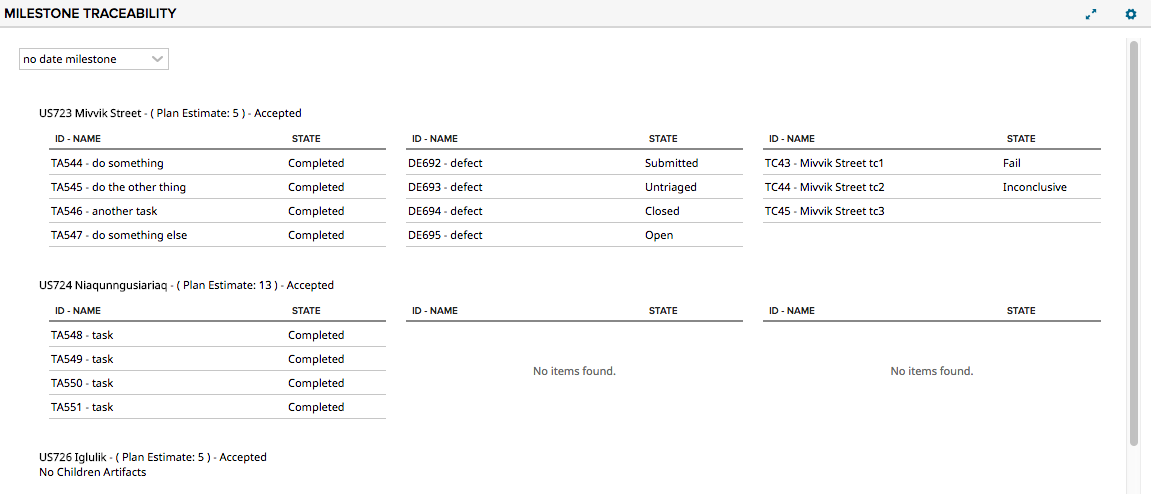
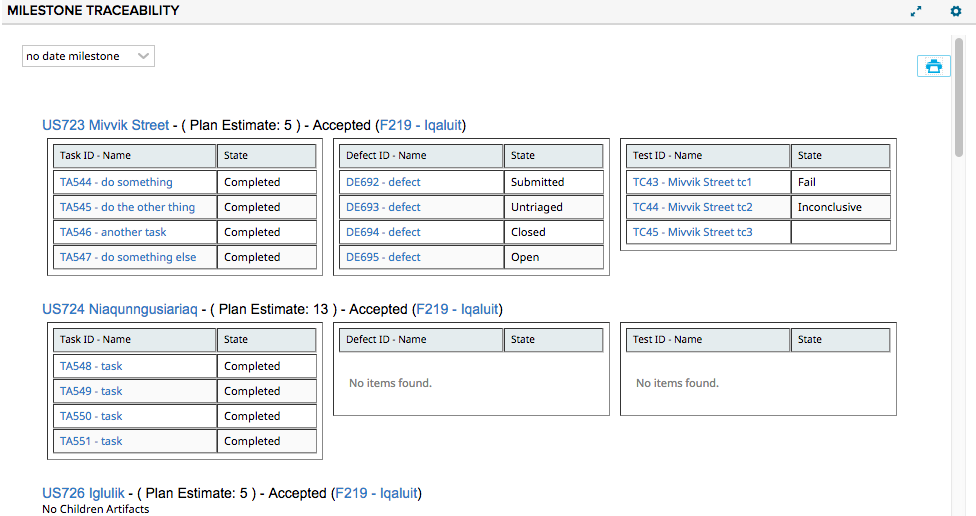
add docs

diff --git a/testcasesummary/README.md b/testcasesummary/README.md
@@ -4,18 +4,33 @@
 
 ![screenshot](./images/screenshot.png "This is an example")
 
+Shows the test cases associated with the timebox selected.  
+* When it's a milestone, this will show all of the testcases associated with a story that
+is associated with the milestone directly.  
+* When it's a release, this will show all of the testcases associated with a story that
+is associated with the release directly.
+
+The display is a grid of test cases grouped by test case type and method.  
+
+At the top, a bar shows the percentage of cases that are displayed that have a last verdict.  This bar changes based on the filtering.
+
+This app will react to the page level timebox scoping if that is set to release or milestone.
+
 ## Development Notes
 
+* This app does not care if there are features that are associated with the release or the milestone
+* The app limits the width to 900 so that printing can print what is directly on the screen.
+* Uses the advanced filter
 
 ### First Load
 
-If you've just downloaded this from github and you want to do development, 
+If you've just downloaded this from github and you want to do development,
 you're going to need to have these installed:
 
  * node.js
  * grunt-cli
  * grunt-init
- 
+
 Since you're getting this from github, we assume you have the command line
 version of git also installed.  If not, go get git.
 
@@ -26,21 +41,21 @@ to get set up to develop:
 
 #### Deployment & Tests
 
-If you want to use the automatic deployment mechanism, be sure to use the 
+If you want to use the automatic deployment mechanism, be sure to use the
 **makeauth** task with grunt to create a local file that is used to connect
 to Rally.  This resulting auth.json file should NOT be checked in.
 
 ### Structure
 
-  * src/javascript:  All the JS files saved here will be compiled into the 
+  * src/javascript:  All the JS files saved here will be compiled into the
   target html file
-  * src/style: All of the stylesheets saved here will be compiled into the 
+  * src/style: All of the stylesheets saved here will be compiled into the
   target html file
-  * test/fast: Fast jasmine tests go here.  There should also be a helper 
+  * test/fast: Fast jasmine tests go here.  There should also be a helper
   file that is loaded first for creating mocks and doing other shortcuts
   (fastHelper.js) **Tests should be in a file named <something>-spec.js**
   * test/slow: Slow jasmine tests go here.  There should also be a helper
-  file that is loaded first for creating mocks and doing other shortcuts 
+  file that is loaded first for creating mocks and doing other shortcuts
   (slowHelper.js) **Tests should be in a file named <something>-spec.js**
   * templates: This is where templates that are used to create the production
   and debug html files live.  The advantage of using these templates is that
@@ -56,10 +71,10 @@ to Rally.  This resulting auth.json file should NOT be checked in.
         "password":"secret",
         "server": "https://rally1.rallydev.com"
     }
-  
+
 ### Usage of the grunt file
 ####Tasks
-    
+
 ##### grunt debug
 
 Use grunt debug to create the debug html file.  You only need to run this when you have added new files to
@@ -71,7 +86,7 @@ Use grunt build to create the production html file.  We still have to copy the h
 
 ##### grunt test-fast
 
-Use grunt test-fast to run the Jasmine tests in the fast directory.  Typically, the tests in the fast 
+Use grunt test-fast to run the Jasmine tests in the fast directory.  Typically, the tests in the fast
 directory are more pure unit tests and do not need to connect to Rally.
 
 ##### grunt test-slow
@@ -84,7 +99,7 @@ data.
 
 Use grunt deploy to build the deploy file and then install it into a new page/app in Rally.  It will create the page on the Home tab and then add a custom html app to the page.  The page will be named using the "name" key in the config.json file (with an asterisk prepended).
 
-You can use the makeauth task to create this file OR construct it by hand.  Caution: the 
+You can use the makeauth task to create this file OR construct it by hand.  Caution: the
 makeauth task will delete this file.
 
 The auth.json file must contain the following keys:
@@ -120,5 +135,3 @@ This task will create an auth.json file in the proper format for you.  **Be care
 ##### grunt --help  
 
 Get a full listing of available targets.
-
-

diff --git a/milestonetrceability/README.md b/milestonetrceability/README.md
@@ -4,11 +4,16 @@
 
 ![screenshot](./images/screenshot.png "This is an example")
 
-Given a milestone, this app finds the user stories **directly** associated with the milesone and prints out some information about the story, plus a summary of tasks, test cases, and defects associated directly with that story.
+Given a milestone, this app finds the user stories **directly** associated with the milestone and prints out some information about the story, plus a summary of tasks, test cases, and defects associated directly with that story.
+
+This app will react to page-level timebox scoping if that is set to Milestone.  Otherwise,
+it will put a selector for milestone onto the app itself.  (The selector will not be printed.)
+
 
 ## Development Notes
 
 * This does not look to see if a feature or a parent story has the milestone.  Only the stories that are directly related to the milestones.
+* The app limits the width to 900 so that printing can print what is directly on the screen.
 
 ### First Load
 
